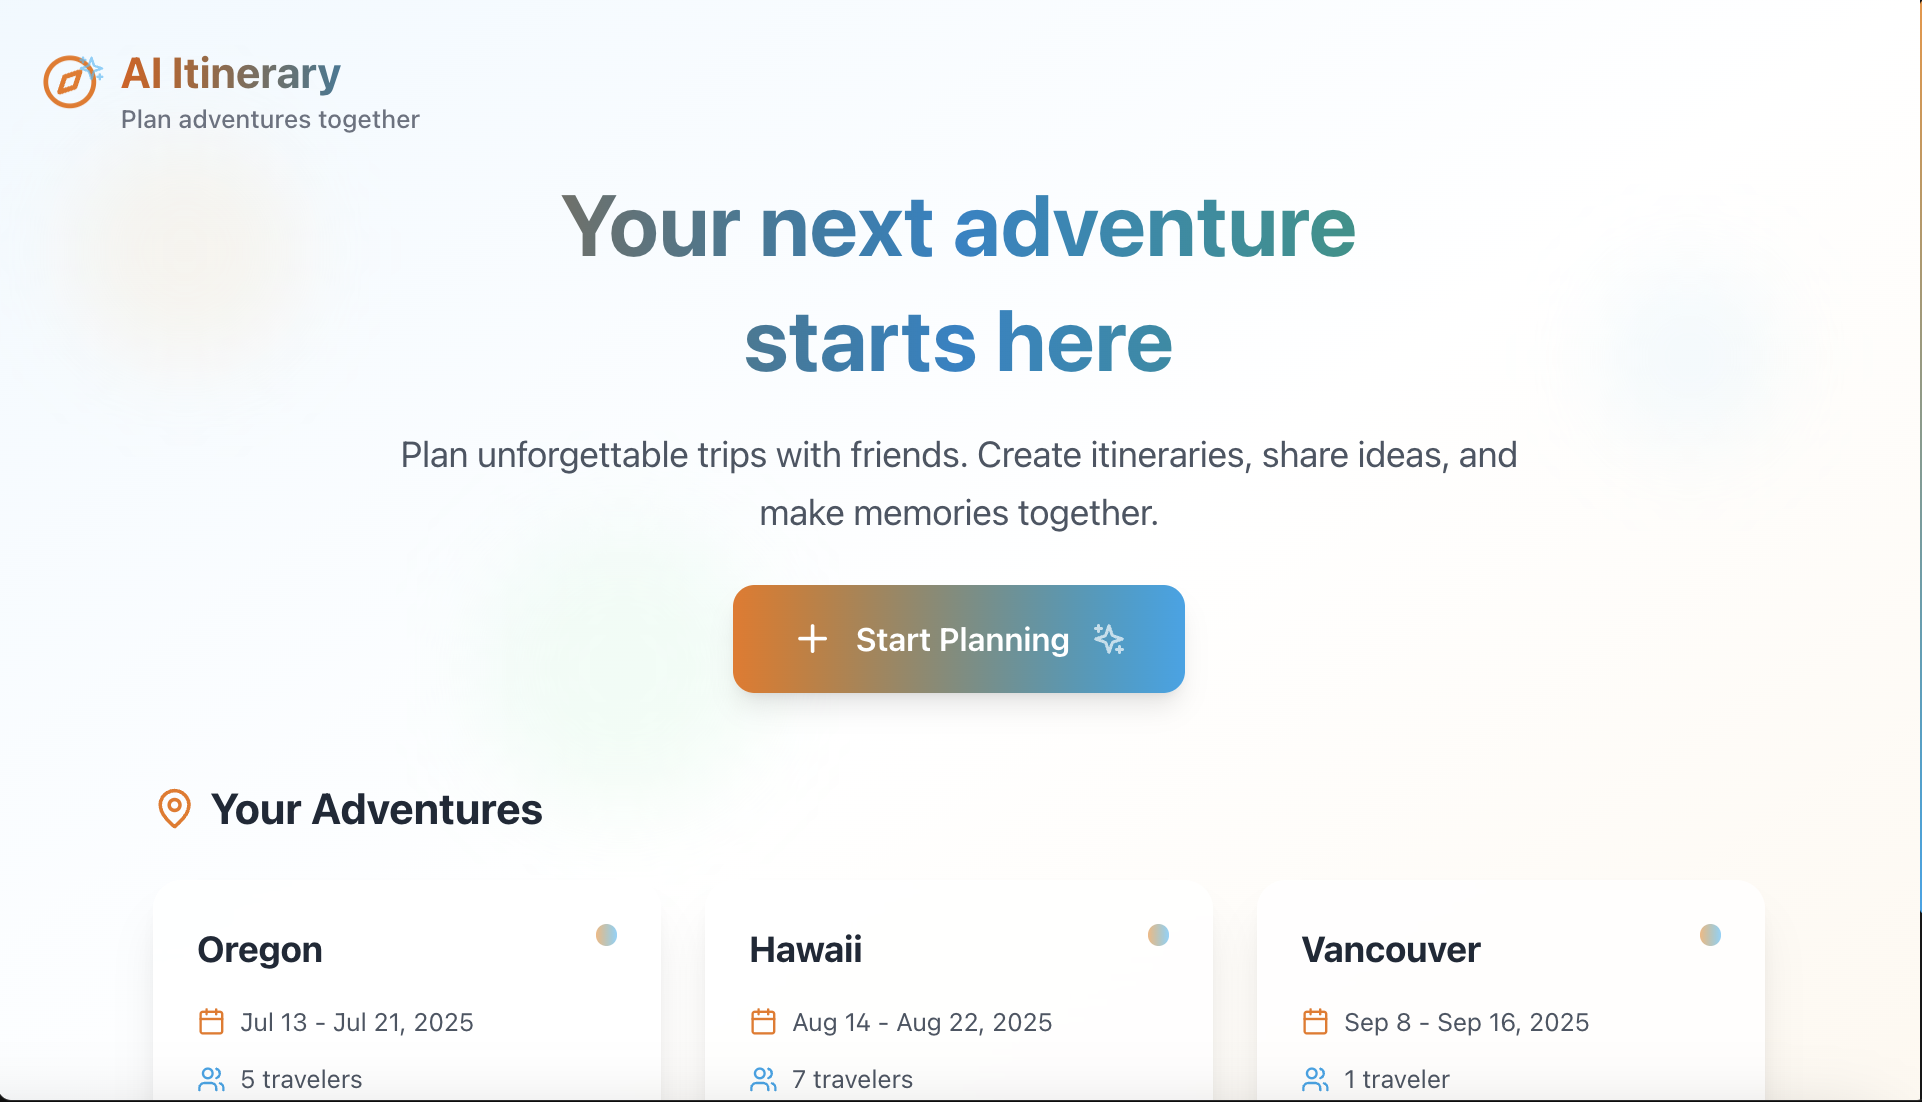
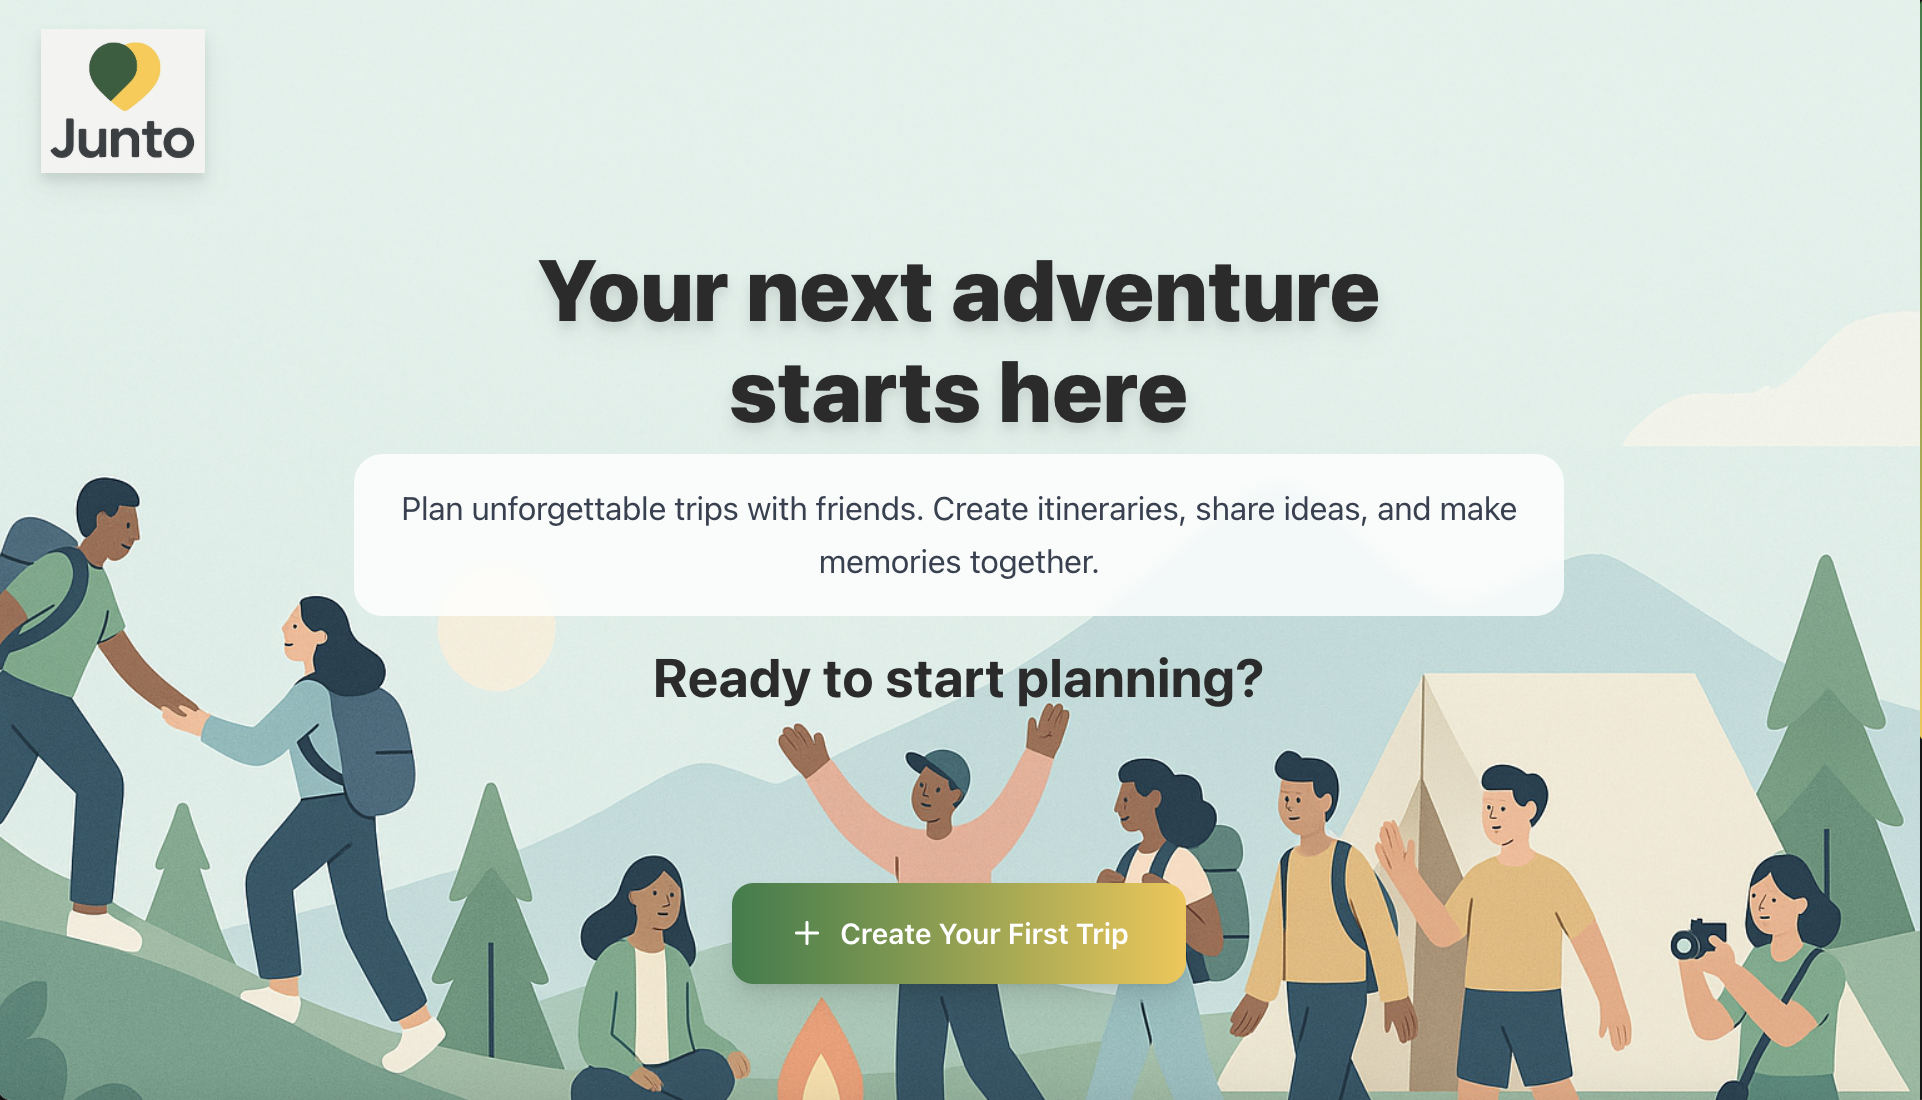
Updates

diff --git a/AI Projects/Text/BoltHackathon.md b/AI Projects/Text/BoltHackathon.md
@@ -1,50 +1,68 @@
-## **AI Itinerary \- Collaborative Trip Planning Platform**
+**Bolt Hackathon: Collaborative Trip Planning Platform**
 
-Hackathon Project | Team of 3 | React \+ TypeScript
+**Project Overview**
 
-### **Overview**
+This project is a collaboration among three people working remotely. I managed the Github repository and deployment and built the home page, trip creation, responsive web features. 
 
-AI Itinerary is a responsive web application designed to streamline collaborative group trip planning. Built during a hackathon with a distributed team of three developers, the platform enables friends to seamlessly coordinate travel plans through real-time collaboration and intuitive design.
+Junto is a modern web application that enables groups to collaboratively plan trips together. Built as a comprehensive solution for shared travel planning, it allows multiple users to create itineraries, add activities, and coordinate group adventures in real-time.  
+Live Demo: [https://steady-torte-9514f8.netlify.app](https://steady-torte-9514f8.netlify.app)
 
-### **Key Features**
+**Key Features**
 
-* Trip Creation & Management: Users can create trips with customizable dates, destinations, and participant counts  
-* Dynamic Itinerary Generation: Automatically generates day-by-day views based on trip duration  
-* Collaborative Activity Planning: Team members can add, edit, and join activities with location, timing, and cost tracking  
-* Real-time Collaboration: Shareable links enable instant team collaboration without authentication barriers  
-* Cost Management: Automatic calculation of per-participant expenses and trip totals  
-* Responsive Design: Mobile-first approach ensuring seamless experience across all devices
+* Trip Creation & Management: Users can create detailed trips with dates, participant counts, and custom names  
+* Real-time Collaboration: Multiple travelers can join trips via shareable links and contribute simultaneously  
+* Interactive Itinerary Builder: Day-by-day activity planning with drag-and-drop functionality  
+* Activity Management: Add, edit, and delete activities with details like location, time, cost, and notes  
+* Participant Tracking: See who's joining each activity with visual participant indicators
 
-### **Technical Implementation**
+**Technical Highlights**
 
-* Frontend: React 18 with TypeScript for type safety and developer experience  
-* State Management: Zustand for lightweight, scalable state management  
-* Routing: React Router for seamless navigation  
-* Styling: Tailwind CSS with custom design system featuring adventure-themed aesthetics  
-* Data Persistence: Local storage with shareable link functionality for MVP deployment  
-* Architecture: Modular component structure designed to minimize merge conflicts in team development
+* Frontend Stack: React 18 with TypeScript for component-based architecture  
+* Type Safety: Full TypeScript implementation for robust development  
+* Responsive Design: Mobile-first approach ensuring seamless experience across all devices  
+* Modern UI/UX: Clean, intuitive interface with smooth animations and micro-interactions  
+* State Management: Implemented with Zustand for efficient, scalable state handling  
+* Real-time Sharing: localStorage-based sharing system for instant collaboration  
+* Vite for fast development and optimized builds  
+* Tailwind CSS for utility-first styling and responsive design  
+* React Router for client-side navigation  
+* Date-fns for date manipulation and formatting
 
-### **Team Collaboration**
+**Key Technical Decisions**
 
-My Role: Lead developer for trip creation and management features
+1. *Zustand over Redux: Chosen for its simplicity and minimal boilerplate while maintaining powerful state management capabilities*  
+2. *localStorage Persistence: Implemented for offline-first functionality and seamless data sharing*  
+3. *Component Modularity: Organized into feature-based modules (trip creation, itinerary management, collaboration)*  
+4. *Mobile-First Design: Responsive breakpoints ensure optimal experience on all screen sizes*
 
-* Architected the core trip data structure and state management  
-* Implemented form validation and user experience flows  
-* Designed the foundational component library for team consistency
+**Development Process**
 
-Collaborative Strategy: Structured codebase with clear separation of concerns to enable parallel development without version control conflicts, allowing three developers to work simultaneously on different features.
+1. *Created comprehensive Product Requirements Document (PRD)*  
+2. *Foundation: Set up project structure, routing, and basic components*  
+3. *Trip Management: Implemented trip creation, editing, and persistence*  
+4. *Itinerary System: Built day-based activity planning with CRUD operations*  
+5. *Collaboration Features: Added user management, sharing, and real-time updates*  
+6. *Polish & Optimization: Enhanced UX with animations, error handling, and mobile optimization*
 
-### **Technical Highlights**
+**Challenges Solved**
 
-* Zero-authentication MVP using shareable links and local storage  
-* Real-time state synchronization across multiple browser sessions  
-* Responsive design system with consistent spacing and typography  
-* Performance-optimized with lazy loading and efficient re-renders
+* *State Synchronization: Developed robust system for sharing trip data between users*  
+* *Mobile Responsiveness: Ensured all interactions work seamlessly on touch devices*  
+* *Data Persistence: Implemented reliable localStorage system with migration support*  
+* *User Experience: Created intuitive flows for joining trips and managing activities*  
+* *Onboarding Flow: Streamlined trip creation with validation and preview*  
+* *Collaboration: Seamless invite system with shareable links*  
+* *Activity Management: Intuitive interface for planning daily activities*  
+* *Cost Tracking: Automatic calculation of trip expenses per participant*  
+* *Performance: Optimized bundle size and loading times*  
+* *Accessibility: Proper semantic HTML and keyboard navigation*  
+* *Error Handling: Graceful fallbacks and user-friendly error messages*  
+* *Code Quality: Clean, maintainable code with TypeScript safety*
 
-### **Impact**
+**Results & Impact**
 
-Delivered a fully functional MVP within hackathon timeframe, demonstrating ability to rapidly prototype, collaborate effectively in distributed teams, and create user-centered solutions under tight deadlines.
+* *Deployment: Successfully deployed to Netlify with automated CI/CD*  
+* *Performance: Achieved fast loading times with optimized Vite build*  
+* *User Experience: Created intuitive, collaborative planning experience*  
+* *Scalability: Built foundation for future features like real-time sync and backend integration*
 
----
-
-*This project showcases my ability to lead technical architecture decisions, collaborate effectively in fast-paced environments, and deliver polished user experiences with modern web technologies.*  
